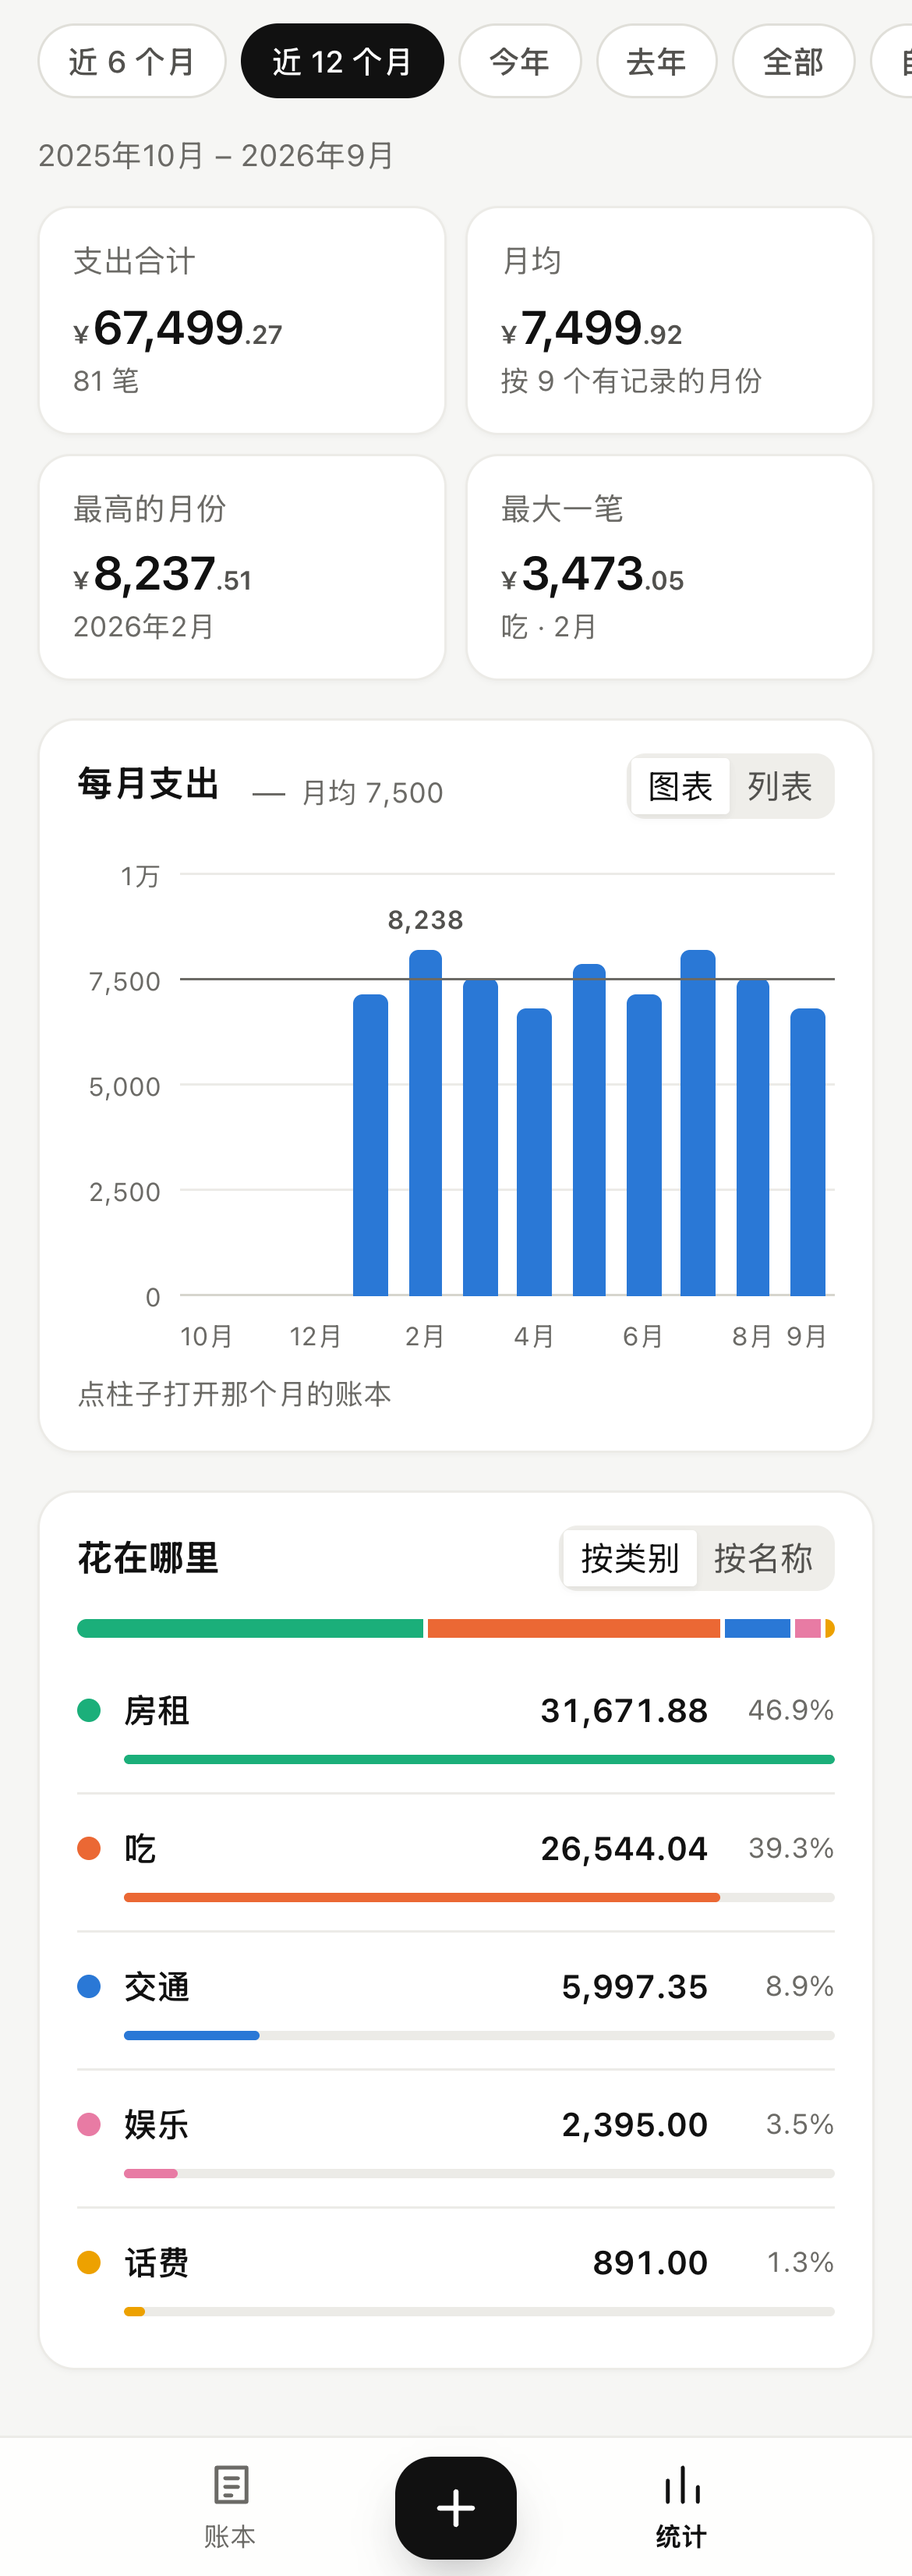
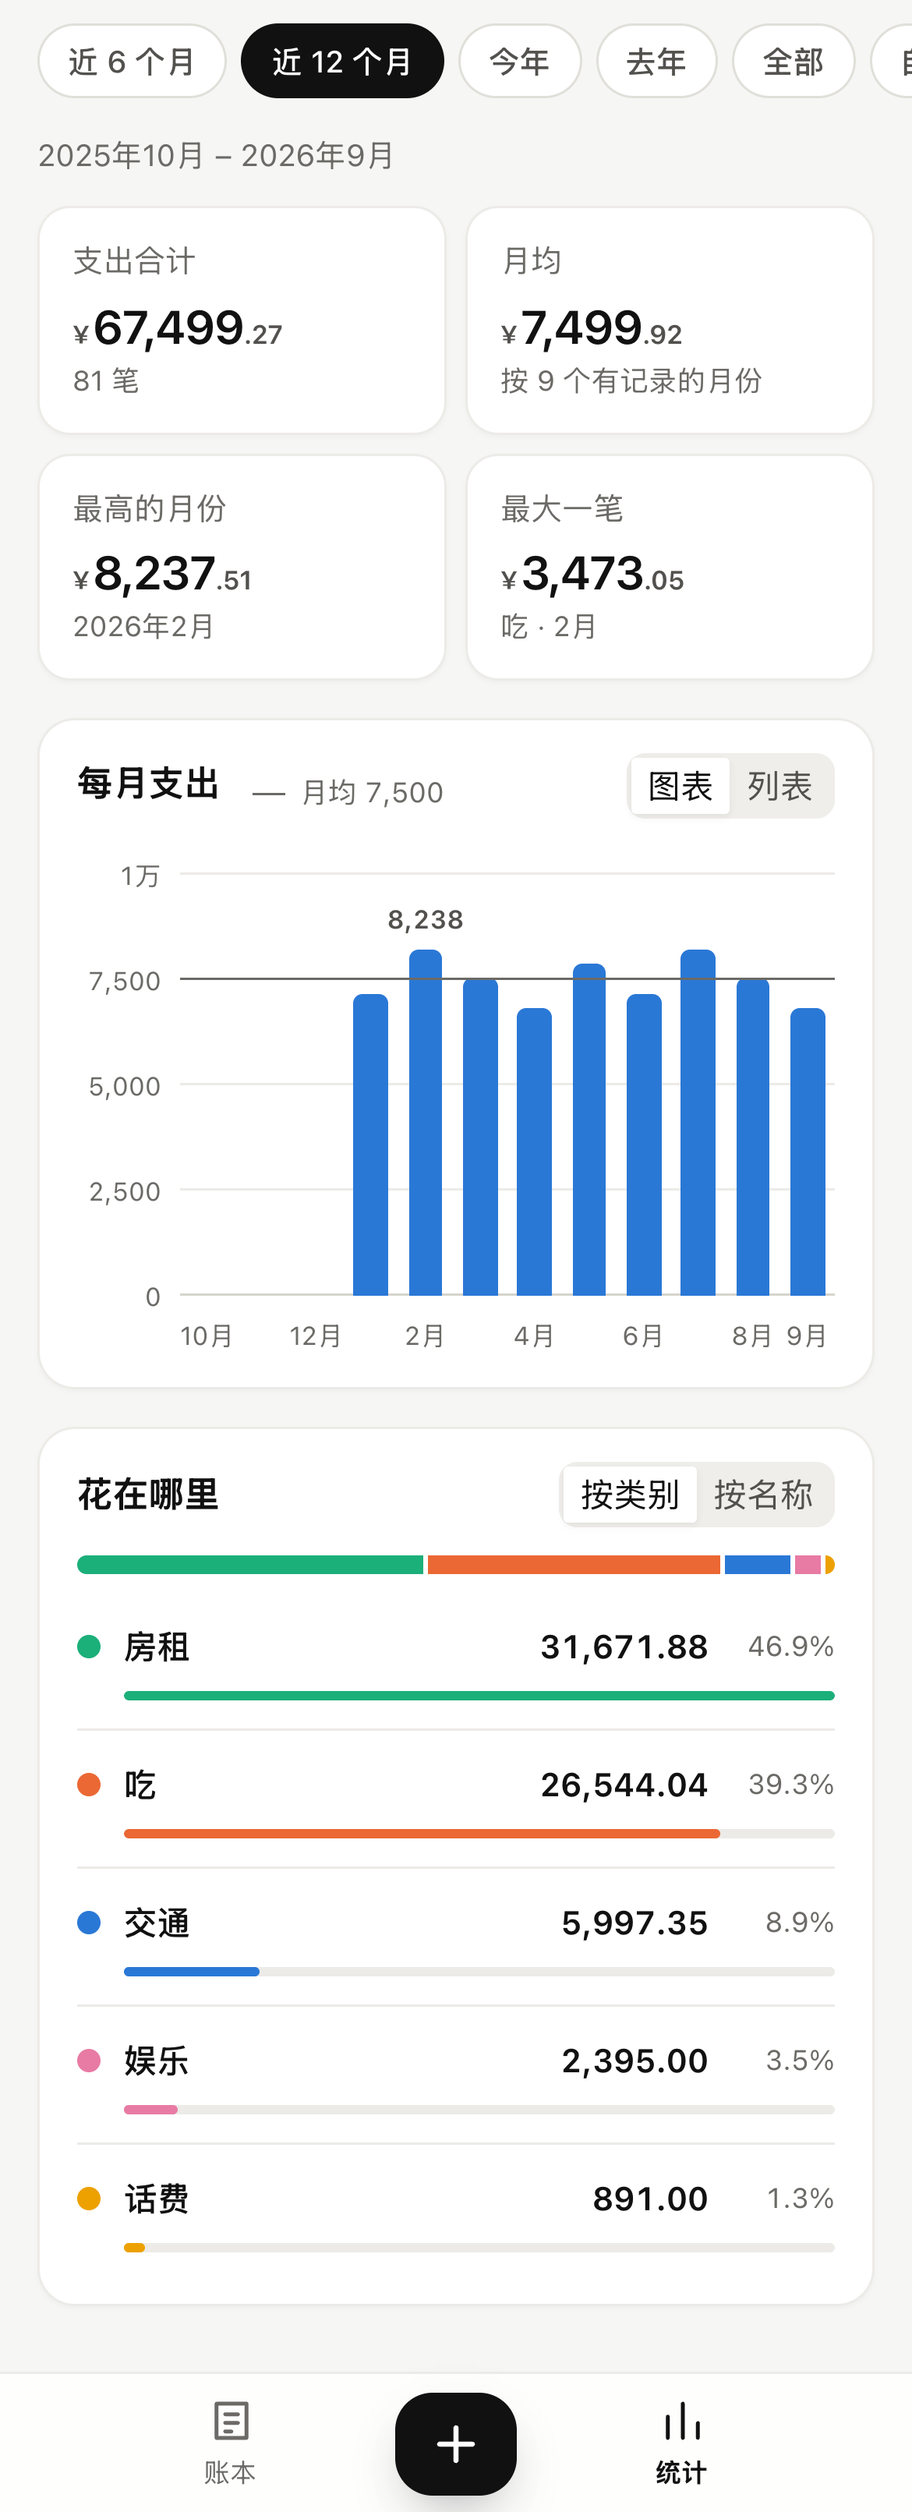
style(ui): 沿用 main 上去掉示例提示的做法
main 上 6a98c01 把录入表单和明细列里的示例占位、「子项只支持一层」这类说明文字去掉了。
新界面照同样的思路收一遍：

- 备注、批量生成的分组不再放示例占位，标签旁写一个「选填」
- 批量生成的说明压成一句；搜索空闲态、首次使用的说明去掉举例
- 统计图下常驻的「点柱子打开那个月的账本」挪进柱子的悬停提示
- 名称为空的报错改成「请填写名称」
- 同步刷新截图

diff --git a/frontend/src/components/BatchSheet.tsx b/frontend/src/components/BatchSheet.tsx
@@ -111,7 +111,7 @@ function BatchForm({ start, onClose }: { start: Period; onClose: () => void }) {
       <SheetHead title="批量生成" onClose={onClose} />
 
       <div className="sheet-body">
-        <p className="sheet-note">把同样的几笔支出一次写进连续的多个月，比如全年房租。已经有同名记录的月份会跳过。</p>
+        <p className="sheet-note">同样的几笔支出一次写进连续的多个月，已有同名记录的月份自动跳过。</p>
 
         <div className="field">
           <span className="field-label">月份</span>
@@ -135,10 +135,10 @@ function BatchForm({ start, onClose }: { start: Period; onClose: () => void }) {
 
         <div className="field">
           <label className="field-label" htmlFor="batch-group">
-            分组
+            分组 <span className="field-optional">选填</span>
           </label>
           <AutoComplete id="batch-group" value={group} options={groupOptions} onChange={(v: string) => setGroup(v)}>
-            <Input autoComplete="off" placeholder="选填，比如：房租。留空就是独立条目" />
+            <Input autoComplete="off" />
           </AutoComplete>
         </div>
 
@@ -153,7 +153,7 @@ function BatchForm({ start, onClose }: { start: Period; onClose: () => void }) {
                   aria-label={`第 ${i + 1} 条的名称`}
                   maxLength={64}
                   autoComplete="off"
-                  placeholder="比如：主卧"
+                  placeholder="名称"
                   value={l.name}
                   onChange={(e) => patchLine(l.id, { name: e.target.value })}
                 />
@@ -197,7 +197,6 @@ function BatchForm({ start, onClose }: { start: Period; onClose: () => void }) {
               id="batch-tpl"
               maxLength={255}
               autoComplete="off"
-              placeholder="比如「{month} 月房租」"
               value={template}
               onChange={(e) => setTemplate(e.target.value)}
             />

diff --git a/frontend/src/components/RecordSheet.tsx b/frontend/src/components/RecordSheet.tsx
@@ -126,7 +126,7 @@ function RecordForm({ state, onClose, onSwitch }: { state: EditorState } & Omit<
   const validate = (): boolean => {
     const e: Errors = {};
     const nm = name.trim();
-    if (!nm) e.name = '写个名称，比如「午餐」「地铁」';
+    if (!nm) e.name = '请填写名称';
     else if (nm.length > 64) e.name = '名称最长 64 个字';
     if (!isGroup) {
       if (amount === null || Number.isNaN(amount)) e.amount = '填一下金额';
@@ -369,14 +369,13 @@ function RecordForm({ state, onClose, onSwitch }: { state: EditorState } & Omit<
 
         <div className="field">
           <label className="field-label" htmlFor="rec-detail">
-            备注
+            备注 <span className="field-optional">选填</span>
           </label>
           <Input
             id="rec-detail"
             value={detail}
             maxLength={255}
             autoComplete="off"
-            placeholder="选填，比如「单车 80 + 公交 60」"
             onChange={(e) => setDetail(e.target.value)}
             onPressEnter={() => void submit()}
           />

diff --git a/frontend/src/pages/LedgerPage.tsx b/frontend/src/pages/LedgerPage.tsx
@@ -218,7 +218,7 @@ export default function LedgerPage() {
       </div>
     );
   } else if (searchOpen) {
-    body = <p className="search-idle">输入关键词，在全部月份里找。比如「地铁」可以看出一共花了多少。</p>;
+    body = <p className="search-idle">在全部月份里搜名称和备注</p>;
   } else {
     body = (
       <>
@@ -272,7 +272,7 @@ export default function LedgerPage() {
               <p className="empty-title">{tree.length ? `${monthLabel(month)}还没有记录` : '开始记第一笔'}</p>
               <p className="empty-text">
                 {!tree.length
-                  ? '按月记账：每笔支出归到一个月里；同类的可以放进一个分组，比如「交通」下面放地铁、公交。'
+                  ? '按月记账：每笔支出归到一个月里，同类的可以放进一个分组。'
                   : prevItems.length
                     ? `可以沿用${monthShort(prev)}的条目，再逐项改金额。`
                     : '点「记一笔」开始。'}

diff --git a/frontend/src/pages/StatsPage.tsx b/frontend/src/pages/StatsPage.tsx
@@ -324,6 +324,7 @@ export default function StatsPage() {
                       <span className="tip">
                         <b>{yuan(d.value)}</b>
                         <span>{d.label}</span>
+                        <span>{isYear ? '点击查看这一年的每个月' : '点击打开这个月的账本'}</span>
                       </span>
                     )}
                     onSelect={(d) =>
@@ -332,7 +333,6 @@ export default function StatsPage() {
                         : navigate(d.key === now ? '/' : `/?m=${d.key}`)
                     }
                   />
-                  <p className="card-hint">{isYear ? '点柱子查看那一年的每个月' : '点柱子打开那个月的账本'}</p>
                 </>
               ) : (
                 <div className="table-wrap">

diff --git a/frontend/src/styles.css b/frontend/src/styles.css
@@ -739,12 +739,6 @@ mark {
   font-weight: 600;
 }
 
-.card-hint {
-  margin: 4px 0 4px;
-  font-size: 12px;
-  color: var(--ink-3);
-}
-
 .ledger-card {
   animation: fade-in 0.22s var(--ease) backwards;
 }
@@ -1530,6 +1524,12 @@ mark {
 
 .field-row.is-single {
   grid-template-columns: minmax(0, 1fr);
+}
+
+.field-optional {
+  margin-left: 4px;
+  font-weight: 400;
+  color: var(--ink-3);
 }
 
 .field-error {
